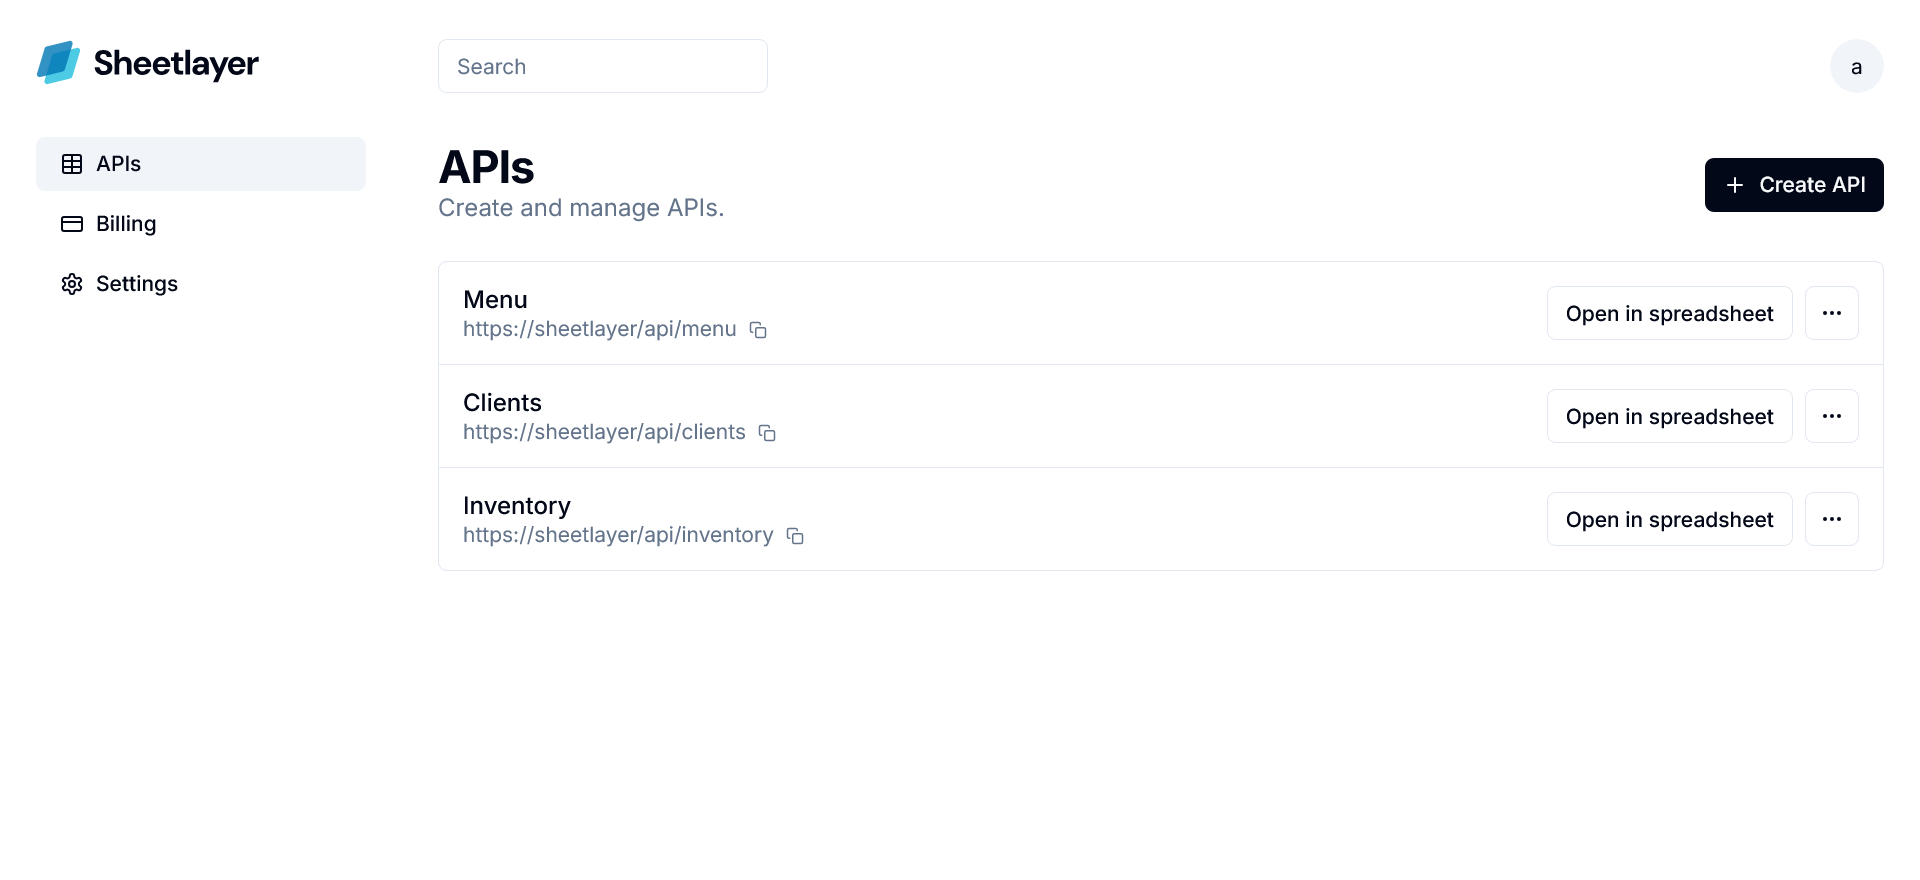
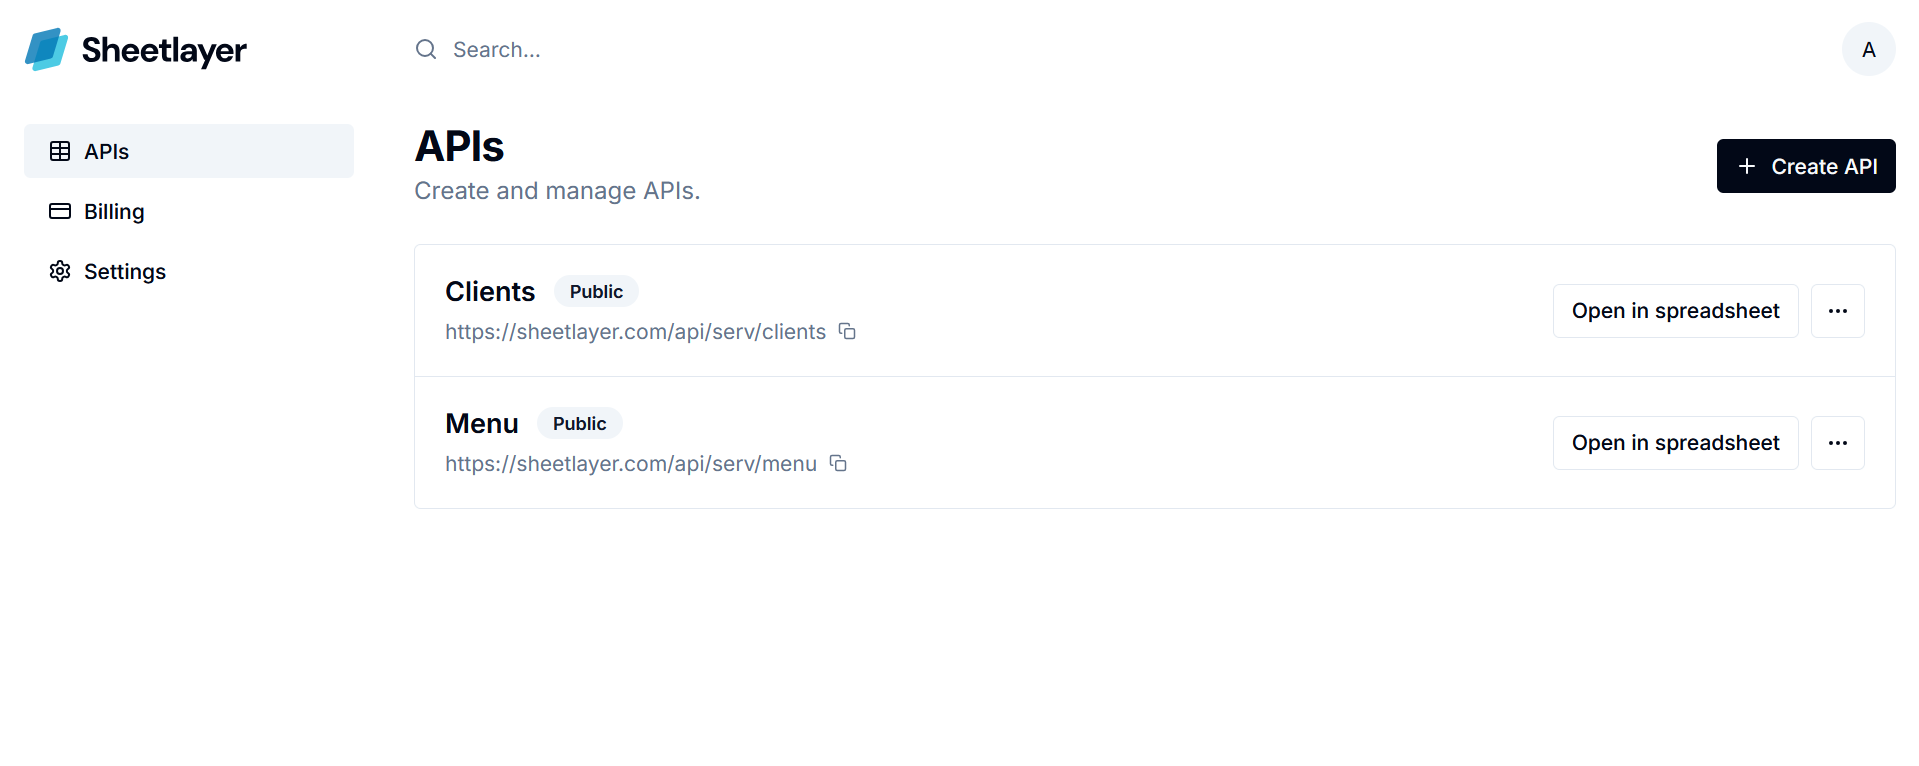
fix ui

diff --git a/app/[workspace_name]/components/workspace-switcher.tsx b/app/[workspace_name]/components/workspace-switcher.tsx
@@ -1,8 +1,11 @@
 "use client"
 
 import * as React from "react"
+import { useParams, useRouter } from "next/navigation"
+import { Api, Workspace } from "@prisma/client"
 
 import { cn } from "@/lib/utils"
+import { useAddWorkspaceModal } from "@/hooks/modals/use-add-workspace-modal"
 import { Button } from "@/components/ui/button"
 import {
   Command,
@@ -18,10 +21,7 @@ import {
   PopoverContent,
   PopoverTrigger,
 } from "@/components/ui/popover"
-import { useParams, useRouter } from "next/navigation"
 import { Icons } from "@/components/icons"
-import { Api, Workspace } from "@prisma/client"
-import { useAddWorkspaceModal } from "@/hooks/modals/use-add-workspace-modal"
 
 type PopoverTriggerProps = React.ComponentPropsWithoutRef<typeof PopoverTrigger>
 
@@ -72,7 +72,7 @@ const WorkspaceSwitcher = ({ className, items }: workspaceSwitcherProps) => {
           <div className="ml-1 flex flex-col text-left">
             <span>{capitalize(currentworkspace?.name)}</span>
             <span className="text-xs font-normal leading-none text-muted-foreground">
-              {currentworkspace?.apis || 0} APIs
+              {currentworkspace?.apis || 0} Projects
             </span>
           </div>
           <Icons.chevronsUpDown className="ml-auto size-4 shrink-0 opacity-50" />
@@ -97,7 +97,7 @@ const WorkspaceSwitcher = ({ className, items }: workspaceSwitcherProps) => {
                   <div className="ml-1 flex flex-col text-left">
                     <span>{capitalize(workspace.name)}</span>
                     <span className="text-xs font-normal leading-none text-muted-foreground">
-                      {workspace?.apis || 0} APIs
+                      {workspace?.apis || 0} Projects
                     </span>
                   </div>
                   <Icons.check

diff --git a/components/modals/add-workspace.tsx b/components/modals/add-workspace.tsx
@@ -1,19 +1,20 @@
 "use client"
 
-import * as z from "zod"
-import { zodResolver } from "@hookform/resolvers/zod"
 import { useState, useTransition } from "react"
-import { useForm } from "react-hook-form"
-
+import { useRouter } from "next/navigation"
+import { addWorkspace } from "@/actions/workspace"
 import { StatusResponseDataType, StatusResponseType } from "@/types"
-import { Form, FormControl, FormField, FormItem, FormMessage } from "../ui/form"
+import { zodResolver } from "@hookform/resolvers/zod"
+import { useForm } from "react-hook-form"
+import * as z from "zod"
+
 import { useAddWorkspaceModal } from "@/hooks/modals/use-add-workspace-modal"
+
+import { Form, FormControl, FormField, FormItem, FormMessage } from "../ui/form"
 import { Input } from "../ui/input"
 import { Label } from "../ui/label"
 import { Modal } from "../ui/modal"
 import { toast } from "../ui/use-toast"
-import { addWorkspace } from "@/actions/workspace"
-import { useRouter } from "next/navigation"
 
 const workspaceNameSchema = z.object({
   name: z.string().nonempty("Workspace name is required"),
@@ -60,12 +61,12 @@ export default function AddWorkspace() {
 
   return (
     <Modal
-      title="Add API"
-      description="Add a new API to your collection."
+      title="Add workspace"
+      description="Add a new workspace to your collection."
       isOpen={isOpen}
       onClose={onClose}
       action={{
-        label: "Add API",
+        label: "Add workspace",
         disabled: isPending,
         onClick: form.handleSubmit(onSubmit),
         isPending,

diff --git a/app/[workspace_name]/(projects)/page.tsx b/app/[workspace_name]/(projects)/page.tsx
@@ -2,10 +2,11 @@ import { getApis } from "@/actions/api"
 
 import { DashboardHeader } from "@/components/header"
 import { DashboardShell } from "@/components/shell"
-import { ApiCreateButton } from "@/app/[workspace_name]/(apis)/components/api-create-button"
-import ApiList from "@/app/[workspace_name]/(apis)/components/api-list"
 
-export default async function ApisPage({
+import { ApiCreateButton } from "./components/api-create-button"
+import ApiList from "./components/api-list"
+
+export default async function ProjectsPage({
   params,
 }: {
   params: { workspace_name: string }
@@ -16,7 +17,7 @@ export default async function ApisPage({
 
   return (
     <DashboardShell>
-      <DashboardHeader heading="APIs" text="Create and manage APIs.">
+      <DashboardHeader heading="Projects" text="Create and manage APIs.">
         <ApiCreateButton size="sm" />
       </DashboardHeader>
       <ApiList defaultApis={apis} workspaceName={workspace_name} />

diff --git a/app/(marketing)/page.tsx b/app/(marketing)/page.tsx
@@ -91,7 +91,7 @@ export default async function IndexPage() {
             </div>
             <div className="absolute -start-10 -top-10 -z-[1] h-full w-[calc(100%+80px)] rounded-md bg-gradient-to-b from-[#03045e]/5 to-background p-px"></div>
           </section>
-          <section className="container max-w-6xl py-16" id="learn-more">
+          {/* <section className="container max-w-6xl py-16" id="learn-more">
             <div className="grid items-center gap-16 md:grid-cols-[1fr_1fr]">
               <Image
                 src="/api-creation.png"
@@ -190,7 +190,7 @@ export default async function IndexPage() {
                 ))}
               </CarouselContent>
             </Carousel>
-          </section>
+          </section> */}
         </main>
       </div>
     </>

diff --git a/app/[workspace_name]/(projects)/components/api-list.tsx b/app/[workspace_name]/(projects)/components/api-list.tsx
@@ -46,8 +46,8 @@ export default function ApiList({
         <div className="divide-y divide-border rounded-md border">
           {apis.map((api, index) => (
             <div key={index} className="flex justify-between items-center">
-              <div className="flex flex-col space-y-1.5 p-5">
-                <div className="flex items-center gap-3">
+              <div className="flex flex-col space-y-1.5 px-5 py-4">
+                <div className="flex items-center gap-2">
                   <h1 className="text-lg font-semibold leading-none first-letter:uppercase">
                     {api.title}
                   </h1>

diff --git a/components/ui/badge.tsx b/components/ui/badge.tsx
@@ -4,7 +4,7 @@ import { VariantProps, cva } from "class-variance-authority"
 import { cn } from "@/lib/utils"
 
 const badgeVariants = cva(
-  "inline-flex items-center border rounded-full px-2.5 py-0.5 text-xs font-semibold transition-colors focus:outline-none focus:ring-2 focus:ring-ring focus:ring-offset-2",
+  "inline-flex items-center border rounded-full px-2 py-0.5 text-xs font-semibold transition-colors focus:outline-none focus:ring-2 focus:ring-ring focus:ring-offset-2",
   {
     variants: {
       variant: {

diff --git a/app/[workspace_name]/billing/components/subscriptions.tsx b/app/[workspace_name]/billing/components/subscriptions.tsx
@@ -54,7 +54,7 @@ export default function Subscriptions({
         return (
           <Card key={index} className="flex items-center justify-between">
             <CardHeader>
-              <CardTitle className="flex items-center gap-3">
+              <CardTitle className="flex items-center gap-2">
                 <h1>Current plan ({plan.productName}) </h1>
                 <SubscriptionStatus
                   statusFormatted={subscription.statusFormatted}

diff --git a/components/ui/card.tsx b/components/ui/card.tsx
@@ -20,7 +20,7 @@ const CardHeader = React.forwardRef<
 >(({ className, ...props }, ref) => (
   <div
     ref={ref}
-    className={cn("flex flex-col space-y-1.5 p-5", className)}
+    className={cn("flex flex-col space-y-1.5 px-5 py-4", className)}
     {...props}
   />
 ))

diff --git a/config/dashboard.ts b/config/dashboard.ts
@@ -4,7 +4,7 @@ export const dashboardConfig: DashboardConfig = {
   mainNav: [],
   sidebarNav: [
     {
-      title: "APIs",
+      title: "Projects",
       href: "/",
       icon: "table",
     },
